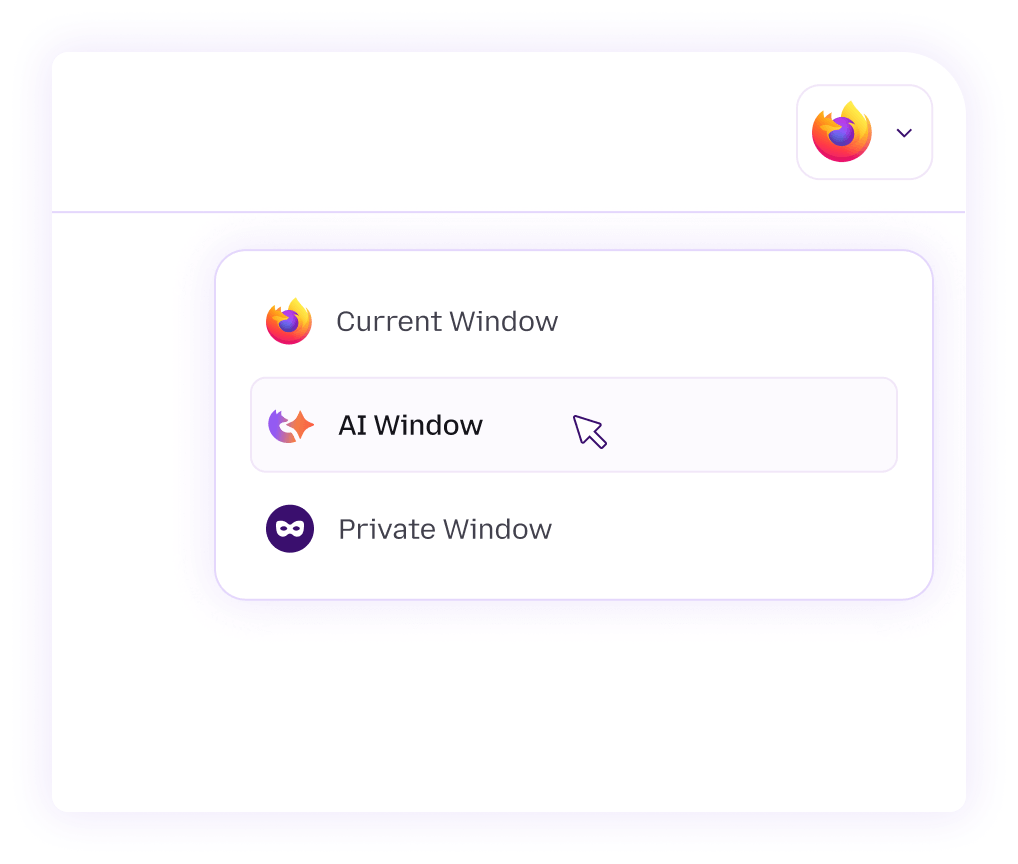
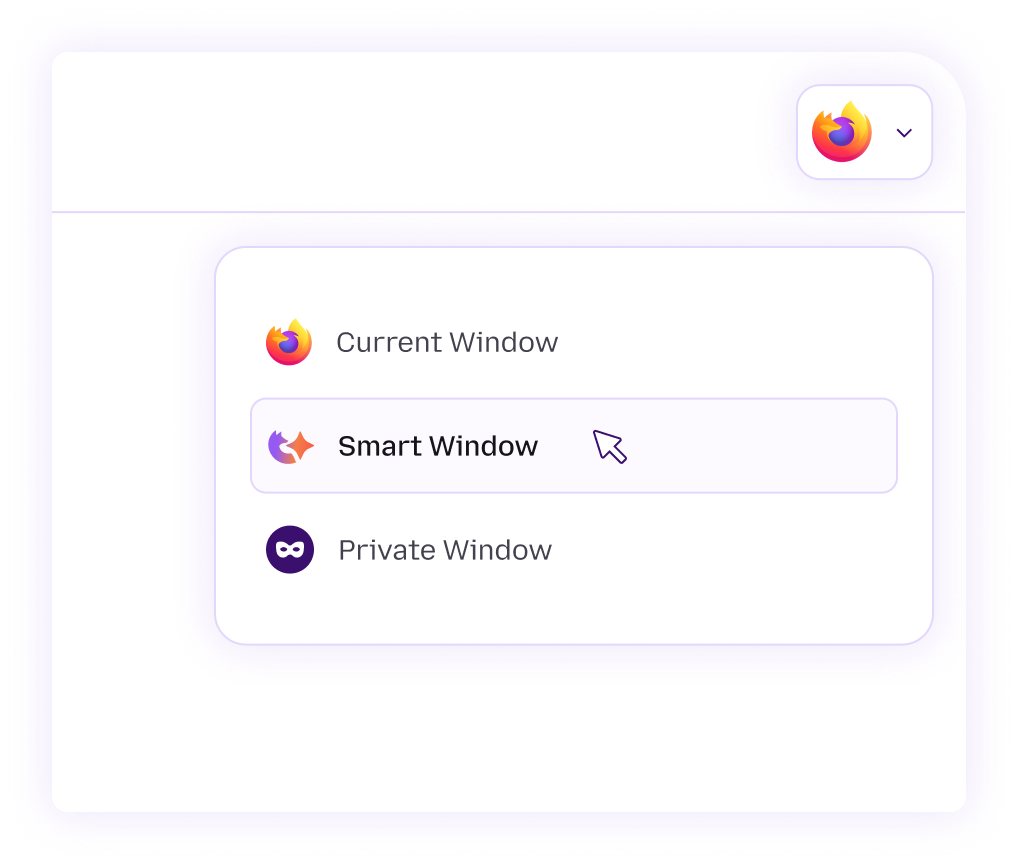
Update to Smart Window (#1054)
* Update to Smart Window

Updating strings for Smart Window at /ai/

* Updating smart window images

diff --git a/springfield/firefox/templates/firefox/ai/waitlist.html b/springfield/firefox/templates/firefox/ai/waitlist.html
@@ -8,8 +8,8 @@
 
 {% block canonical_urls %}<meta name="robots" content="noindex,follow">{% endblock %}
 
-{% block page_title %}Coming Soon: AI window{% endblock %}
-{% block page_desc %}AI window: exploring the future through our values{% endblock %}
+{% block page_title %}Coming Soon: Smart Window{% endblock %}
+{% block page_desc %}Smart Window: exploring the future through our values{% endblock %}
 
 {% block page_css %}
   {{ css_bundle('firefox_waitlist') }}
@@ -26,11 +26,11 @@
   </nav>
 <main class="c-main">
   <div id="main-content" class="c-main-content">
-    <h1 class="c-pill"><span class="c-pill-tag">Coming Soon</span> <span>AI Window</span></h1>
-    <h2 class="c-heading">AI Window: Built for choice &amp; control</h2>
+    <h1 class="c-pill"><span class="c-pill-tag">Coming Soon</span> <span>Smart Window</span></h1>
+    <h2 class="c-heading">Smart Window: Built for choice &amp; control</h2>
     <div class="c-body">
       <p><strong>The web is changing, and sitting it out doesn’t help anyone.</strong></p>
-      <p>We were founded under the mission that the web should be open, fast, secure and people first. As AI becomes a larger part of the web, we see a clear role: to shape it in ways that support choice and keep the internet open and accessible to all. With AI Window we’ll do this through:</p>
+      <p>We were founded under the mission that the web should be open, fast, secure and people first. As AI becomes a larger part of the web, we see a clear role: to shape it in ways that support choice and keep the internet open and accessible to all. With Smart Window we’ll do this through:</p>
       <ul class="mzp-u-list-styled">
         <li>A fully opt-in experience</li>
         <li>Features that protect your choice</li>
@@ -99,7 +99,7 @@
       optional_attributes={
         "width": "1018",
         "height": "864",
-        "alt": "A menu of Firefox options: 'Current Window', cursor hovers over 'AI Window', 'Private window'",
+        "alt": "A menu of Firefox options: 'Current Window', cursor hovers over 'Smart Window', 'Private window'",
         "class": "c-main-image-asset"
       })
     }}
